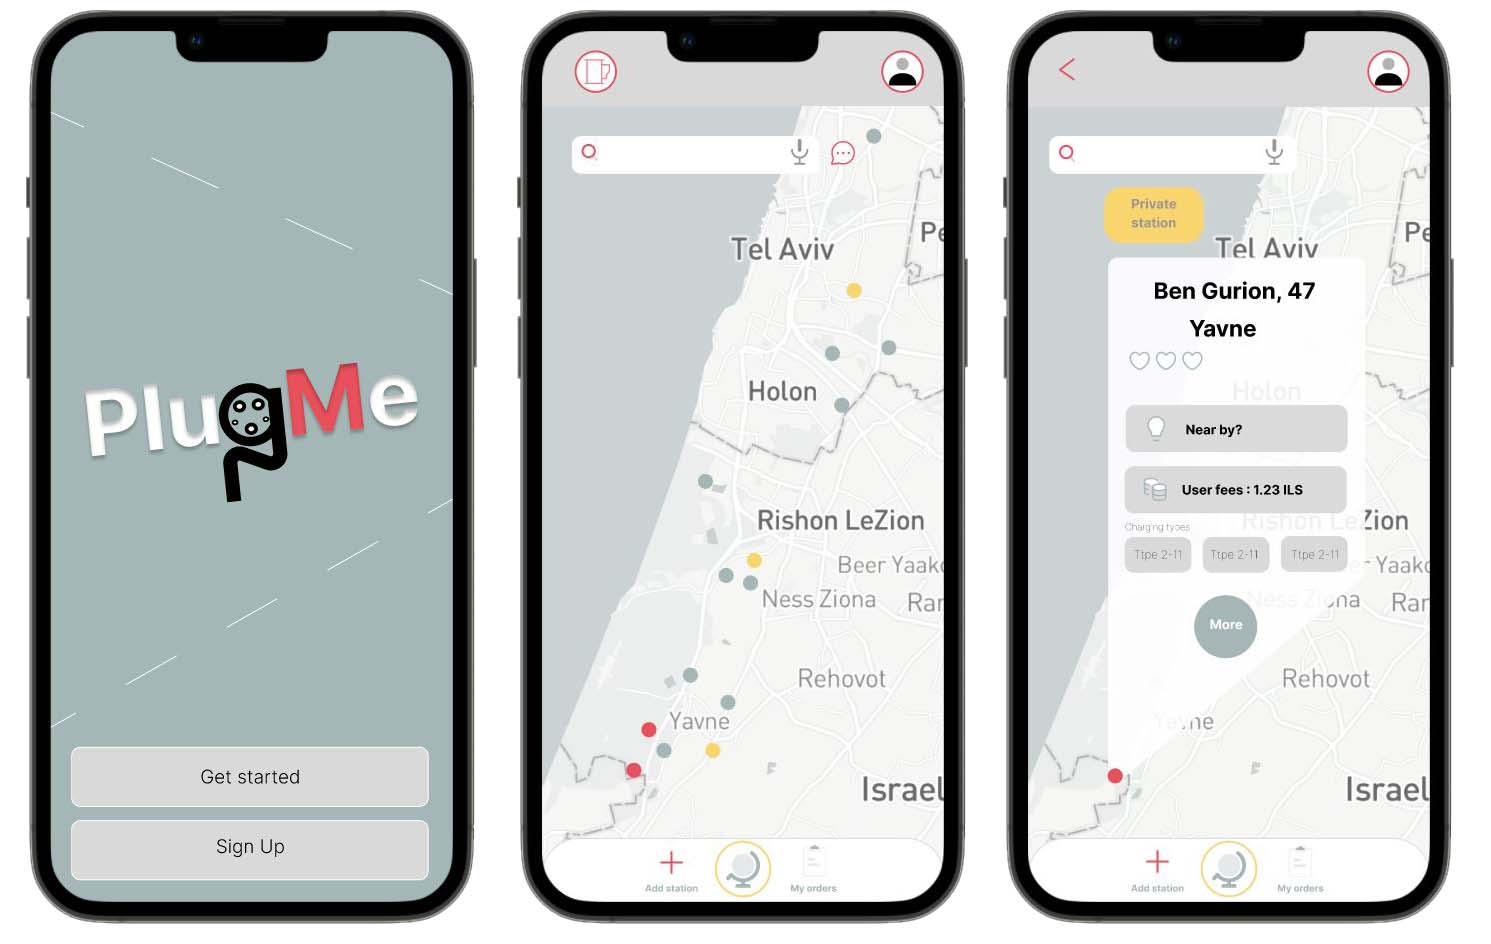
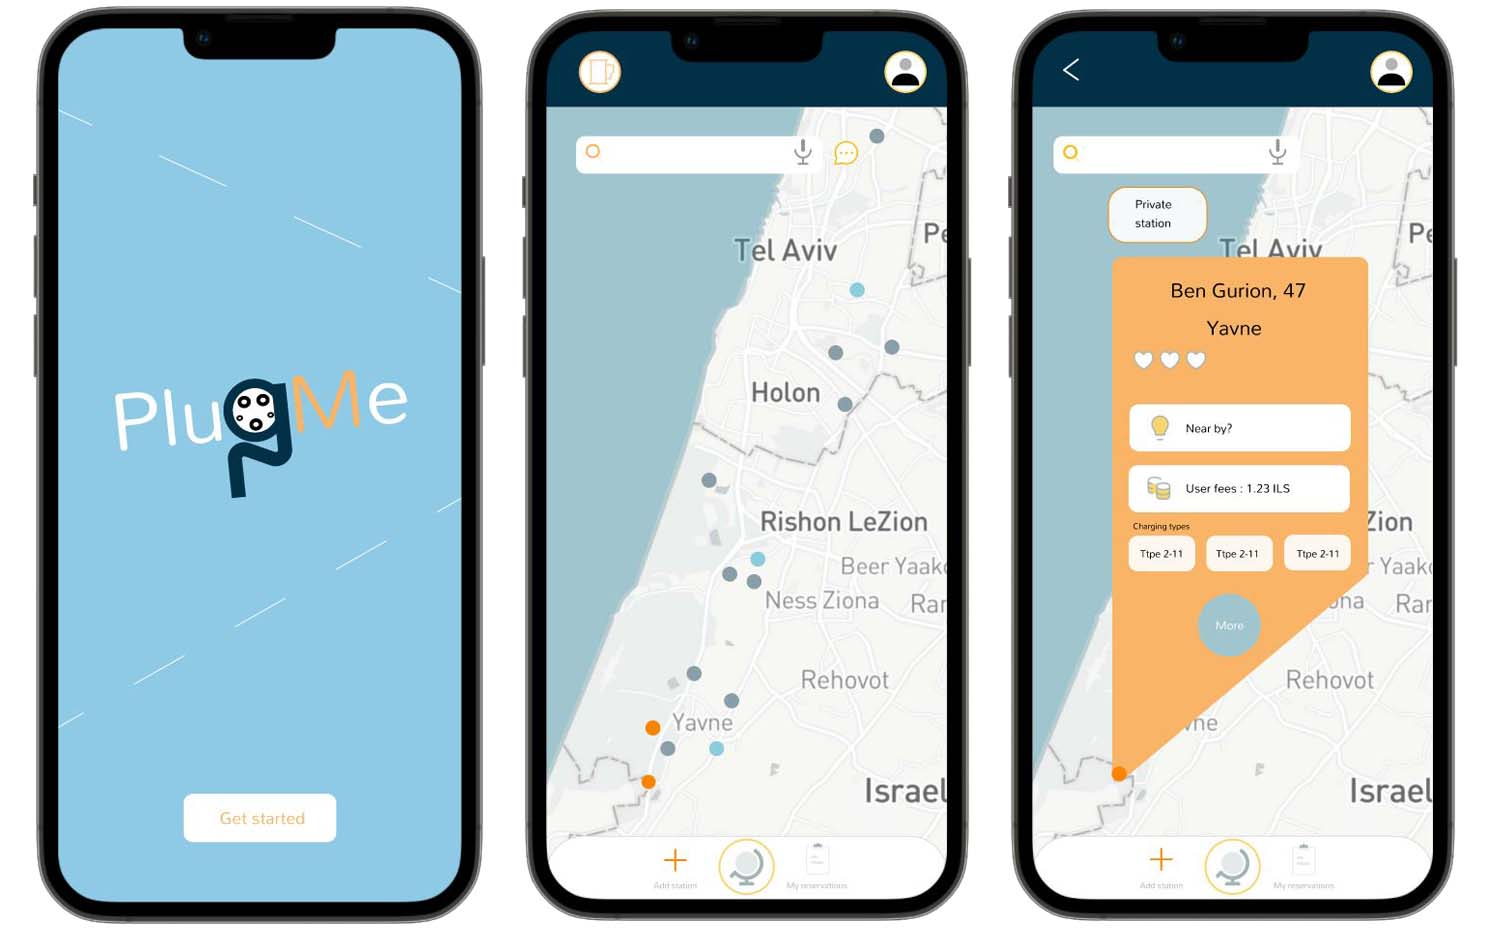
ADD UI TO PLUGME

diff --git a/plugMe.html b/plugMe.html
@@ -101,7 +101,7 @@ Zlil                </span>
                 </div>
                 <div class="col-md-6 px-0">
                   <div style="padding-top: 50px; padding-right: 0%; margin-left: auto; margin-right: 20px;" class="img-box">
-                    <img src="images/cover1.png" alt="">
+                    <img src="images/cover1.jpg" alt="">
                   </div>
                 </div>
               </div>
@@ -582,9 +582,21 @@ Personas are descriptive figures built on the data collected from the study, in 
                                                           <div style="text-align:center;">
                                                             <a  href="https://www.figma.com/proto/oD83PPqr4NUdwiAaI6jbMo/plugme?node-id=1%3A3&scaling=scale-down&page-id=0%3A1&starting-point-node-id=1%3A3" class="btn-1">
                                                             
-                                                                <button style="background-color: rgb(49, 155, 204); color: white; border-radius: 5px; margin-bottom: 20px; border-color: white; padding: 5px;">To The Prototype</button>
+                                                                <button style="background-color: #219ebc; color: white; border-radius: 5px; margin-bottom: 20px; border-color: white; padding: 5px;">To The Prototype</button>
                                                             </a>
                                                         </div>
+                                                        
+                                                        <div style="text-align:center;">
+                                                          <a  href="images/ui.png" class="btn-1">
+                                                          
+                                                              <button style="background-color: rgb(240, 164, 93); color: white; border-radius: 5px; margin-bottom: 20px; border-color: white; padding: 20px;">UI RESEARCH</button>
+                                                          </a>
+                                                      </div>
+                                                      <!-- <div class="achieve_container1">
+                                                        <img src="images/ui.png">
+                                                
+                                            </div>  -->
+                                                      
 
                                   <!-- ---> 
 

diff --git a/css/style.css b/css/style.css
@@ -251,7 +251,7 @@ a:focus {
 .slider_section .detail_box .btn-box1 .btn-1 {
   display: inline-block;
   padding: 7px 7px;
-  background-color: #d35d80;
+  background-color: #fb8500;
   color: #ffffff;
   border-radius: 5px;
   margin-right: 5px;
